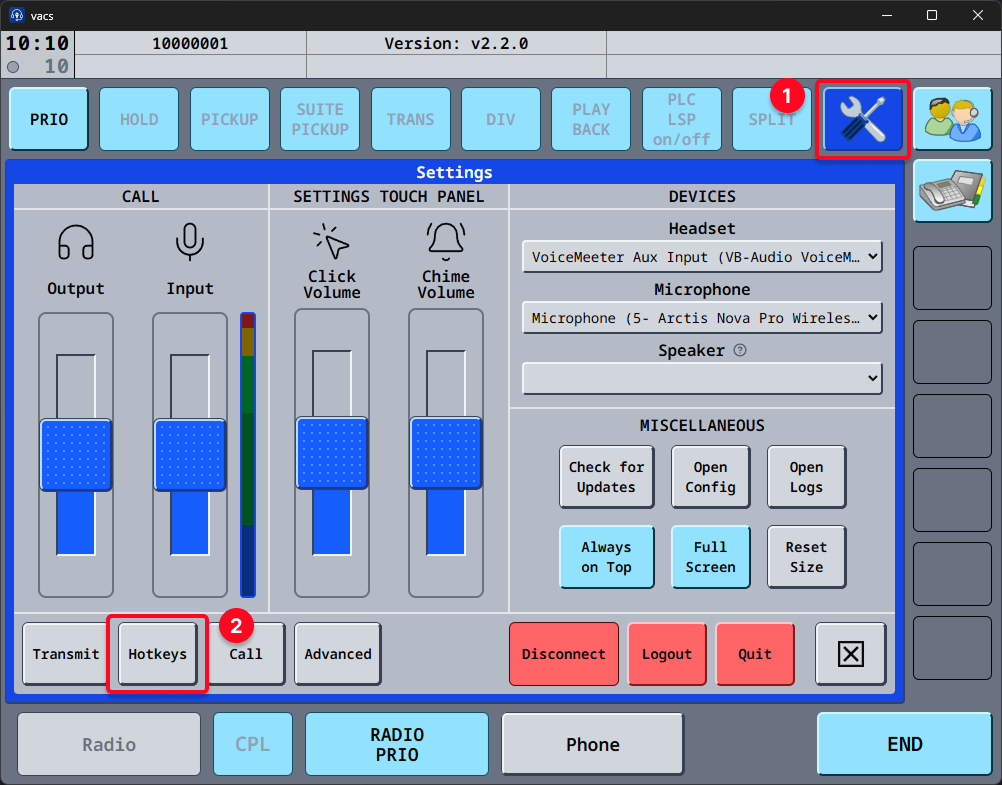
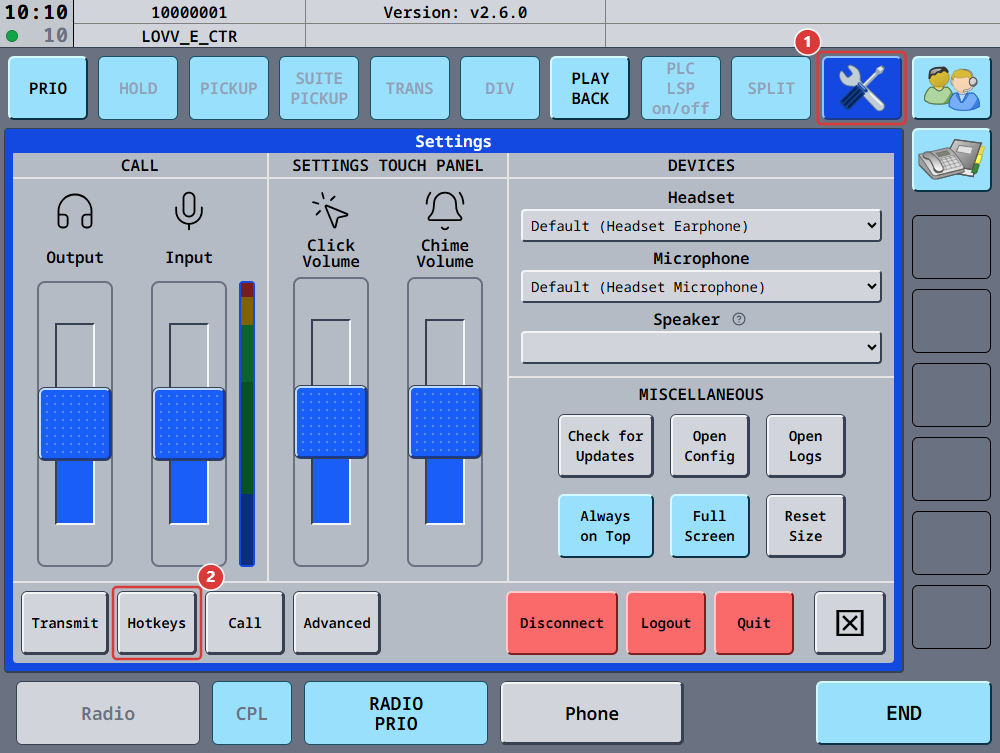
docs: document joystick bindings and refresh the settings images
Covers binding a joystick button, the Joystick Devices dialog and the
platform support table.

The Hotkeys and Transmit dialog images predated the Joystick Devices button
that both dialogs now carry, and the Transmit ones still showed the pre-2.5
CALL MODE section, so all six are recaptured, along with the two images
showing how those pages are opened. The Hotkeys assign and clear callouts
are renumbered into the surrounding steps.

diff --git a/docs/settings/hotkeys.md b/docs/settings/hotkeys.md
@@ -32,17 +32,17 @@ style={{
 
 To bind a key to an action:
 
-- Simply press the field showing **Not bound** or the relevant key binding next to the desired action.
+- Simply press the field showing **Not bound** or the relevant key binding next to the desired action **(1)**.
 - Press the key (or key combination) you want to assign, or press a button on a connected joystick.
 - The field will update to display the selected binding.
 
 :::info[Clearing a Key Binding]
-Click the **✕** button on the right side of the row to remove the assigned key binding.
+Click the **✕** button on the right side of the row **(2)** to remove the assigned key binding.
 :::
 
 <img
 src="/img/settings/HotkeysConfigPage.png"
-alt="vacs Settings Page"
+alt="vacs Hotkeys Config, with the binding field and its clear button marked"
 style={{
     width: "45%",
     display: "block",
@@ -100,10 +100,17 @@ Binding a button works exactly like binding a key:
 
 Only **buttons** can be bound. Axes, hats and triggers that report as an axis (common for gamepad triggers) cannot be used as a binding.
 
-{/* TODO(screenshot): /img/settings/HotkeysConfigPage-joystick.png - Settings > Hotkeys Config with
-    one action bound to a joystick button, so the field reads something like "Button 3 (VPC
-    Throttle)" instead of a key name, and the "Joystick Devices" button visible in the dialog
-    header. */}
+<img
+src="/img/settings/HotkeysConfigPage-joystick.png"
+alt="vacs Hotkeys Config with an action bound to a joystick button"
+style={{
+    width: "45%",
+    display: "block",
+    margin: "1.5rem auto",
+    borderRadius: "8px",
+    boxShadow: "0 4px 16px rgba(0,0,0,0.08)"
+  }}
+/>
 
 :::note[How devices are recognized]
 vacs identifies a device by a hardware identifier rather than by the order it was plugged in, so your bindings survive unplugging the device, rebooting, and moving it to a different USB port.
@@ -117,8 +124,17 @@ Some devices, in particular flight sim throttles and button boxes, have **latche
 
 The **Joystick Devices** button in the header of the Hotkeys Config and Transmit Config dialogs opens a list of your devices where you can tick the ones vacs should **ignore while capturing**.
 
-{/* TODO(screenshot): /img/settings/JoystickDevices.png - The Joystick Devices dialog listing at
-    least two connected devices, one of them ticked as ignored. */}
+<img
+src="/img/settings/JoystickDevices.png"
+alt="The Joystick Devices dialog with one device ignored"
+style={{
+    width: "45%",
+    display: "block",
+    margin: "1.5rem auto",
+    borderRadius: "8px",
+    boxShadow: "0 4px 16px rgba(0,0,0,0.08)"
+  }}
+/>
 
 The list contains every currently connected device, plus previously ignored devices that are unplugged right now, so their entry does not silently disappear.
 
